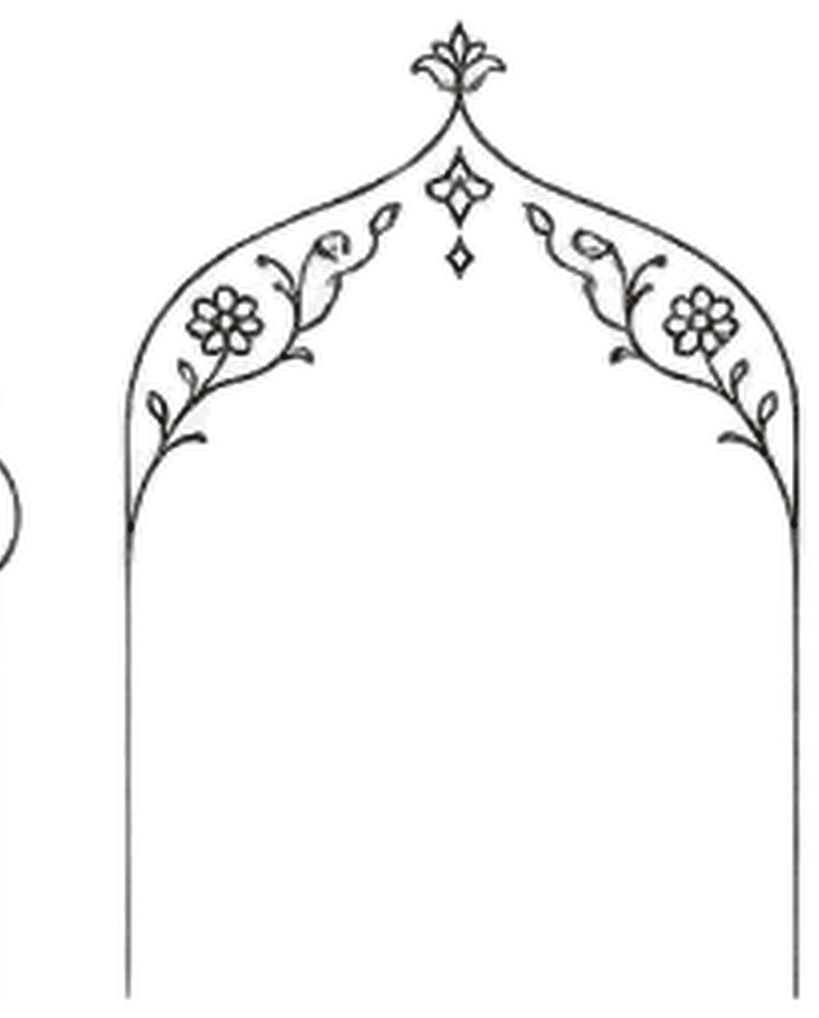
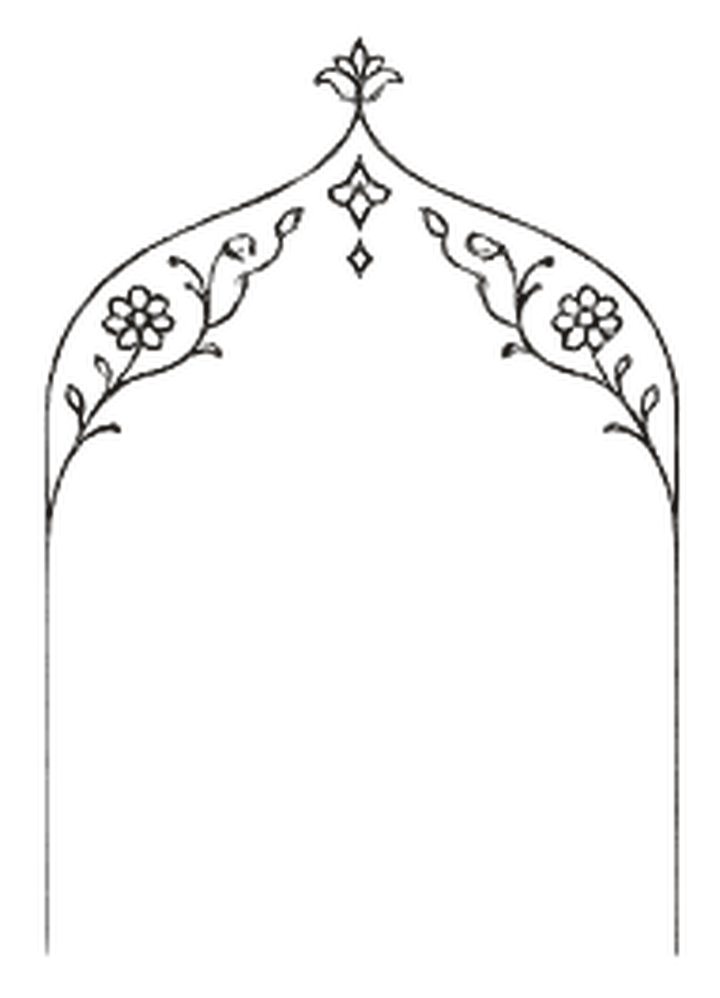
feat: luxury sticky frosted navbar, remove axis line, pristine arch framing without hover pop-in or stray pixels

Changed region(s): [[0.0611, 0.0, 0.9778, 0.994], [0.0, 0.4349, 0.0306, 0.5591]]

diff --git a/src/components/dom/layout/Navbar.tsx b/src/components/dom/layout/Navbar.tsx
@@ -1,4 +1,4 @@
-import { useState } from 'react';
+import { useState, useEffect } from 'react';
 import { ArrowRight, Menu, Search, ShoppingBag, X } from 'lucide-react';
 import { useCreativeStore } from '../../../store/useCreativeStore';
 import { useCartStore } from '../../../store/useCartStore';
@@ -6,10 +6,20 @@ import { useSoundEffects } from '../../../hooks/useSoundEffects';
 
 export function Navbar() {
   const [menuOpen, setMenuOpen] = useState(false);
+  const [isScrolled, setIsScrolled] = useState(false);
   const toggleCart = useCreativeStore((s) => s.toggleCart);
   const items = useCartStore((s) => s.items);
   const { playHover, playClick } = useSoundEffects();
   const cartCount = items.reduce((acc, i) => acc + i.quantity, 0);
+
+  useEffect(() => {
+    const handleScroll = () => {
+      setIsScrolled(window.scrollY > 20);
+    };
+    handleScroll();
+    window.addEventListener('scroll', handleScroll, { passive: true });
+    return () => window.removeEventListener('scroll', handleScroll);
+  }, []);
 
   const scrollToSection = (id: string) => {
     playClick();
@@ -19,107 +29,146 @@ export function Navbar() {
 
   const links = [
     ['Gemstones', 'gemstone-collection'],
-    ['Consultation', 'craftsmanship'],
-    ['Designs', 'specs'],
-    ['Efficacy', 'tech'],
-    ['Our Story', 'cta'],
+    ['Consultation', 'appointment'],
+    ['Designs', 'gallery'],
+    ['Efficacy', 'ways-to-wear'],
+    ['Our Story', 'narrative'],
   ];
 
   return (
-    <header className="fixed left-0 top-0 z-50 w-full px-6 sm:px-12 lg:px-16 py-5 sm:py-6 pointer-events-none">
-      <div className="w-full max-w-[1440px] mx-auto flex items-center justify-between">
-        {/* Brand Logo matching Concept Art */}
-        <a
-          href="#hero"
-          className="pointer-events-auto flex items-center gap-2.5 px-3.5 py-1.5 rounded-full bg-white/25 hover:bg-white/40 backdrop-blur-md border border-white/40 text-white transition-all whitespace-nowrap shadow-[0_4px_16px_rgba(0,0,0,0.12)]"
-          onMouseEnter={playHover}
-        >
-          {/* Stylized Golden Vedic Lotus Mark */}
-          <svg viewBox="0 0 40 32" className="w-7 h-6 sm:w-8 sm:h-7 text-[#f5d799] fill-current flex-shrink-0 drop-shadow-[0_1px_3px_rgba(0,0,0,0.3)]" aria-hidden="true">
-            <path
-              d="M20 2C18 7 13 13 6 16C12 18 16 23 17 30C19 25 21 25 23 30C24 23 28 18 34 16C27 13 22 7 20 2Z"
-              opacity="0.95"
-            />
-            <path
-              d="M20 7C22 13 27 18 33 20C28 22 25 26 24 31C21 28 19 28 16 31C15 26 12 22 7 20C13 18 18 13 20 7Z"
-              opacity="0.65"
-            />
-            <circle cx="20" cy="18" r="2.5" fill="#ffffff" />
-          </svg>
-          <span className="font-serif text-base sm:text-lg tracking-[0.18em] font-medium text-white drop-shadow-[0_1px_4px_rgba(0,0,0,0.4)] whitespace-nowrap">
-            ASTRO LAABH
-          </span>
-        </a>
+    <header
+      className={`fixed left-0 top-0 z-50 w-full transition-all duration-300 ${
+        isScrolled
+          ? 'bg-[#FAF8F5]/96 backdrop-blur-md border-b border-[#E8E1D5] shadow-[0_4px_20px_rgba(24,21,18,0.06)] py-3 sm:py-3.5'
+          : 'bg-[#FAF8F5]/85 backdrop-blur-md border-b border-[#E8E1D5]/60 py-4 sm:py-5'
+      }`}
+    >
+      <div className="w-full max-w-[1440px] mx-auto px-6 sm:px-10 lg:px-14 flex items-center justify-between">
+        {/* Brand Logo & Heritage Mark */}
+        <div className="flex items-center gap-3 sm:gap-4">
+          <a
+            href="#hero"
+            className="flex items-center gap-2.5 px-3 py-1.5 rounded-full bg-white/70 hover:bg-white border border-[#E2D8C8] text-[#181512] transition-all whitespace-nowrap shadow-[0_2px_8px_rgba(24,21,18,0.04)]"
+            onMouseEnter={playHover}
+            onClick={() => scrollToSection('hero')}
+          >
+            {/* Stylized Golden Vedic Lotus Mark */}
+            <svg
+              viewBox="0 0 40 32"
+              className="w-6 h-5 sm:w-7 sm:h-6 text-[#9E773A] fill-current flex-shrink-0"
+              aria-hidden="true"
+            >
+              <path
+                d="M20 2C18 7 13 13 6 16C12 18 16 23 17 30C19 25 21 25 23 30C24 23 28 18 34 16C27 13 22 7 20 2Z"
+                opacity="0.95"
+              />
+              <path
+                d="M20 7C22 13 27 18 33 20C28 22 25 26 24 31C21 28 19 28 16 31C15 26 12 22 7 20C13 18 18 13 20 7Z"
+                opacity="0.65"
+              />
+              <circle cx="20" cy="18" r="2.5" fill="#181512" />
+            </svg>
+            <span className="font-serif text-sm sm:text-base tracking-[0.18em] font-medium text-[#181512] whitespace-nowrap">
+              ASTRO LAABH
+            </span>
+          </a>
 
-        {/* Navigation Links */}
-        <nav className="pointer-events-auto hidden items-center gap-6 xl:gap-8 lg:flex">
+          {/* Luxury Vedic Guarantee Badge (matching reference art) */}
+          <div className="hidden xl:flex items-center gap-2 px-3 py-1 rounded-full bg-[#F3EDE2]/80 border border-[#E5DCD0] text-[11px] font-serif tracking-[0.14em] uppercase text-[#73634F]">
+            <span className="w-1.5 h-1.5 rounded-full bg-[#9E773A]" />
+            <span>Sacred Vedic Gemstones</span>
+          </div>
+        </div>
+
+        {/* Center Navigation Links */}
+        <nav className="hidden items-center gap-7 xl:gap-9 lg:flex">
           {links.map(([label, id]) => (
             <button
               key={id}
               onClick={() => scrollToSection(id)}
-              className="font-serif text-[14px] xl:text-[15px] font-normal text-[#383129] transition-colors hover:text-[#9b7337] whitespace-nowrap"
+              className="font-serif text-[12.5px] xl:text-[13px] font-medium tracking-[0.16em] uppercase text-[#332C24] transition-colors hover:text-[#9E773A] whitespace-nowrap py-1 relative group"
               onMouseEnter={playHover}
             >
               {label}
+              <span className="absolute bottom-0 left-0 w-0 h-[1.5px] bg-[#9E773A] transition-all duration-300 group-hover:w-full" />
             </button>
           ))}
         </nav>
 
-        {/* Right Action Controls matching Reference Concept Art */}
-        <div className="pointer-events-auto flex items-center gap-2 sm:gap-3 flex-shrink-0">
+        {/* Right Action Controls */}
+        <div className="flex items-center gap-2.5 sm:gap-3 flex-shrink-0">
           <button
-            aria-label="Search"
-            className="hidden h-10 w-10 items-center justify-center rounded-full border border-[#382f23]/20 bg-white/40 text-[#29251f] hover:bg-white/70 transition-all backdrop-blur-sm sm:flex"
+            aria-label="Search gemstones"
+            className="hidden h-9 w-9 sm:h-10 sm:w-10 items-center justify-center rounded-full border border-[#E0D7C8] bg-white/70 text-[#29251F] hover:bg-white hover:border-[#9E773A] transition-all shadow-[0_2px_8px_rgba(24,21,18,0.03)] sm:flex"
+            onClick={playClick}
           >
             <Search className="h-4 w-4" />
           </button>
+
           <button
             aria-label="Shopping bag"
             onClick={() => {
               playClick();
               toggleCart();
             }}
-            className="relative hidden h-10 w-10 items-center justify-center rounded-full border border-[#382f23]/20 bg-white/40 text-[#29251f] hover:bg-white/70 transition-all backdrop-blur-sm sm:flex"
+            className="relative hidden h-9 w-9 sm:h-10 sm:w-10 items-center justify-center rounded-full border border-[#E0D7C8] bg-white/70 text-[#29251F] hover:bg-white hover:border-[#9E773A] transition-all shadow-[0_2px_8px_rgba(24,21,18,0.03)] sm:flex"
           >
             <ShoppingBag className="h-4 w-4" />
             {cartCount > 0 && (
-              <span className="absolute -right-1 -top-1 grid h-4 w-4 place-items-center rounded-full bg-[#80632e] text-[9px] text-white font-medium">
+              <span className="absolute -right-1 -top-1 grid h-4 w-4 place-items-center rounded-full bg-[#9E773A] text-[9px] text-white font-medium shadow-sm">
                 {cartCount}
               </span>
             )}
           </button>
+
           <button
-            onClick={() => scrollToSection('craftsmanship')}
-            className="consult-button hidden items-center gap-3.5 rounded-full bg-[#f3dbb3] hover:bg-[#ebd0a2] py-2 pl-6 pr-2 shadow-sm transition-all sm:flex group border border-[#dfc394]"
+            onClick={() => scrollToSection('appointment')}
+            className="consult-button hidden items-center gap-3 rounded-full bg-[#EAD4B0] hover:bg-[#E0C69C] py-2 pl-5 pr-2 shadow-sm transition-all sm:flex group border border-[#D8BC8E]"
           >
-            <span className="font-serif text-[14px] font-medium text-[#2d2214] tracking-wide">
+            <span className="font-serif text-[13px] font-medium text-[#241B10] tracking-wide">
               Consult an Astrologer
             </span>
-            <span className="grid h-8 w-8 place-items-center rounded-full bg-[#2d2214] text-[#f8e5bd] transition-transform duration-300 group-hover:translate-x-0.5">
-              <ArrowRight className="h-4 w-4" />
+            <span className="grid h-7 w-7 place-items-center rounded-full bg-[#241B10] text-[#EAD4B0] transition-transform duration-300 group-hover:translate-x-0.5">
+              <ArrowRight className="h-3.5 w-3.5" />
             </span>
           </button>
+
+          {/* Mobile Menu Toggle Button */}
           <button
-            className="grid h-10 w-10 place-items-center rounded-full bg-white/60 lg:hidden"
+            className="grid h-9 w-9 place-items-center rounded-full border border-[#E0D7C8] bg-white/80 text-[#29251F] lg:hidden"
             aria-label="Toggle navigation"
             onClick={() => setMenuOpen((open) => !open)}
           >
-            {menuOpen ? <X /> : <Menu />}
+            {menuOpen ? <X className="h-4 w-4" /> : <Menu className="h-4 w-4" />}
           </button>
         </div>
       </div>
 
+      {/* Mobile Drawer Menu */}
       {menuOpen && (
-        <nav className="pointer-events-auto absolute left-4 right-4 top-[72px] rounded-2xl border border-white/60 bg-[#f5edda]/95 p-4 shadow-xl backdrop-blur-md lg:hidden">
-          {links.map(([label, id]) => (
+        <nav className="absolute left-4 right-4 top-[64px] rounded-2xl border border-[#E5DDD0] bg-[#FAF8F5]/98 p-5 shadow-2xl backdrop-blur-xl lg:hidden">
+          <div className="flex flex-col divide-y divide-[#EFEAE1]">
+            {links.map(([label, id]) => (
+              <button
+                key={id}
+                onClick={() => scrollToSection(id)}
+                className="w-full py-3.5 text-left font-serif text-[15px] font-medium text-[#2C251D] hover:text-[#9E773A] transition-colors flex items-center justify-between"
+              >
+                <span>{label}</span>
+                <ArrowRight className="h-3.5 w-3.5 opacity-40" />
+              </button>
+            ))}
+          </div>
+
+          <div className="pt-4 mt-2">
             <button
-              key={id}
-              onClick={() => scrollToSection(id)}
-              className="block w-full rounded-xl px-4 py-3 text-left font-serif text-[#302b24] hover:bg-white/50"
+              onClick={() => scrollToSection('appointment')}
+              className="w-full py-3 px-4 rounded-xl bg-[#EAD4B0] text-[#241B10] font-serif text-sm font-medium flex items-center justify-center gap-2"
             >
-              {label}
+              <span>Consult an Astrologer</span>
+              <ArrowRight className="h-4 w-4" />
             </button>
-          ))}
+          </div>
         </nav>
       )}
     </header>

diff --git a/src/components/sections/NarrativeSection.tsx b/src/components/sections/NarrativeSection.tsx
@@ -123,11 +123,6 @@ export function NarrativeSection() {
 
         {/* 4 Story Stations — Clean open layout (cards removed!) */}
         <div className="relative grid grid-cols-1 sm:grid-cols-2 lg:grid-cols-4 gap-8 md:gap-10 items-stretch">
-          {/* Continuous Horizontal Journey Axis Line */}
-          <div
-            className="hidden lg:block absolute left-[4%] right-[4%] top-[205px] h-[1px] border-t border-dashed border-[#DFD7CB] pointer-events-none z-0"
-            aria-hidden="true"
-          />
 
           {stories.map((story, index) => (
             <motion.article
@@ -145,15 +140,15 @@ export function NarrativeSection() {
               {/* Visual Showcase Stage — No card boxes! */}
               <div className="relative w-full aspect-[280/350] flex flex-col justify-end items-center p-2 z-10">
                 
-                {/* THAT ONE CHOSEN DESIGN — Shows ONLY on hover, completely hidden when not hovering */}
+                {/* Sacred Vedic Floral Arch Alcove — Elegantly framing each artifact */}
                 <div
-                  className="vedic-arch-hover pointer-events-none absolute inset-0 z-10 flex items-center justify-center p-1 sm:p-2"
+                  className="pointer-events-none absolute inset-0 z-10 flex items-center justify-center p-1 sm:p-2"
                   aria-hidden="true"
                 >
                   <img
                     src={vedicArchDesign}
                     alt=""
-                    className="w-full h-full object-contain pointer-events-none select-none filter contrast-125 drop-shadow-[0_4px_16px_rgba(24,21,18,0.06)]"
+                    className="w-full h-full object-contain pointer-events-none select-none opacity-85 group-hover:opacity-100 transition-opacity duration-300 drop-shadow-[0_4px_16px_rgba(24,21,18,0.04)]"
                     loading="lazy"
                     draggable={false}
                   />

diff --git a/src/index.css b/src/index.css
@@ -71,17 +71,15 @@ body {
   animation: floatBobbing 3.4s ease-in-out infinite;
 }
 
-/* Vedic Arch Hover Line-Art Reveal */
-.vedic-arch-hover {
-  opacity: 0;
-  transform: scale(0.95) translateY(6px);
-  transition: opacity 0.4s ease, transform 0.4s cubic-bezier(0.22, 1, 0.36, 1);
-  will-change: opacity, transform;
+/* Vedic Arch Alcove Framing */
+.vedic-arch-frame {
+  opacity: 0.85;
+  transition: opacity 0.3s ease;
+  will-change: opacity;
 }
 
-.group:hover .vedic-arch-hover {
+.group:hover .vedic-arch-frame {
   opacity: 1;
-  transform: scale(1) translateY(0);
 }
 
 /* Ways to wear your gemstone — vertical-scroll-driven editorial sequence */
